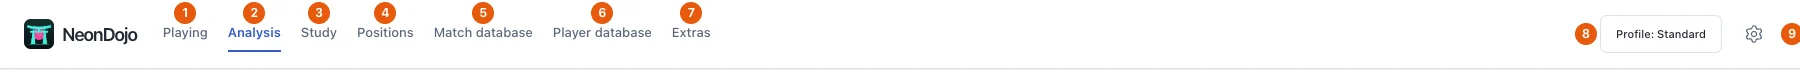
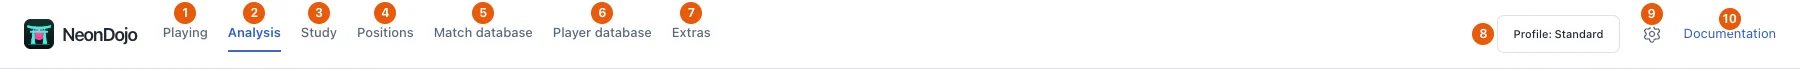
Open the published user guide from the app header

diff --git a/web/e2e/user-guide-screenshots.spec.ts b/web/e2e/user-guide-screenshots.spec.ts
@@ -505,7 +505,8 @@ test('recapture the user guide screenshots', async ({ page }) => {
         }),
       ),
       { n: 8, loc: header.getByRole('button', { name: /^Profile/ }).first(), at: 'lm', dx: -14 },
-      { n: 9, loc: header.getByRole('button', { name: 'Settings' }), at: 'rm', dx: 16 },
+      { n: 9, loc: header.getByRole('button', { name: 'Settings' }), at: 'ct', dy: 2 },
+      { n: 10, loc: header.getByRole('link', { name: 'Documentation' }), at: 'ct', dy: -5 },
     ]);
     const headerBox = await header.boundingBox();
     await save(page, 'header', {

diff --git a/web/src/app/App.tsx b/web/src/app/App.tsx
@@ -553,6 +553,14 @@ export default function App() {
             label={w('settings')}
             compact
           ></ActionButton>
+          <a
+            className="documentation-link"
+            href="https://hendrikreh.github.io/neondojo/user-guide/"
+            target="_blank"
+            rel="noreferrer"
+          >
+            {t('app.documentation')}
+          </a>
         </div>
         <MatchImportInputs importer={importer} />
       </header>

diff --git a/web/src/shared/i18n/locales/de.ts b/web/src/shared/i18n/locales/de.ts
@@ -263,6 +263,7 @@ export default {
     'board.cube': 'Doppler {value}, {owner}',
     'board.centered': 'zentriert',
     'board.themeSource': 'BGBlitz · {name}',
+    'app.documentation': 'Dokumentation',
     'app.home': 'NeonDojo-Startseite',
     'app.tagline': 'JEDEN ZUG VERSTEHEN.',
     'app.libraryEyebrow': 'DEINE BIBLIOTHEK',

diff --git a/web/src/shared/i18n/locales/en.ts b/web/src/shared/i18n/locales/en.ts
@@ -256,6 +256,7 @@ export default {
     'board.cube': 'Cube {value}, {owner}',
     'board.centered': 'centered',
     'board.themeSource': 'BGBlitz · {name}',
+    'app.documentation': 'Documentation',
     'app.home': 'NeonDojo home',
     'app.tagline': 'EVERY MOVE, UNDERSTOOD.',
     'app.libraryEyebrow': 'YOUR LIBRARY',

diff --git a/web/src/app/workspace.css b/web/src/app/workspace.css
@@ -37,6 +37,14 @@
   gap: 10px;
   flex-wrap: wrap;
 }
+.documentation-link {
+  align-self: center;
+  color: var(--ui-accent);
+  font-size: var(--font-size-body);
+}
+.documentation-link:hover {
+  text-decoration: underline;
+}
 .settings-trigger {
   display: flex;
   align-items: center;

diff --git a/docs/user-guide/README.md b/docs/user-guide/README.md
@@ -40,7 +40,7 @@ Tips for a particular level are marked with these labels:
 
 Open NeonDojo in your browser at <http://127.0.0.1:8787>. The header is the same in every workspace.
 
-![The NeonDojo header with its seven workspaces, the profile selector and Settings](images/header.webp)
+![The NeonDojo header with its seven workspaces, the profile selector, Settings and Documentation](images/header.webp)
 
 | # | Header item | What you do there |
 | --- | --- | --- |
@@ -53,6 +53,7 @@ Open NeonDojo in your browser at <http://127.0.0.1:8787>. The header is the same
 | 7 | **Extras** | Run engine benchmarks and engine duels, back up the database, and check versions. |
 | 8 | **Profile** | Switch configuration profiles and see whether the current settings differ from the saved profile. |
 | 9 | **Settings** (gear) | Set the language, appearance, engines, error thresholds, playing defaults and board artwork. |
+| 10 | **Documentation** | Open this user guide in a new browser tab. |
 
 Each workspace contains further tabs, as the map below shows.
 
